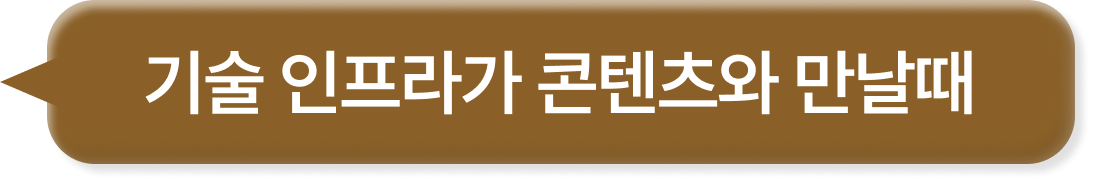
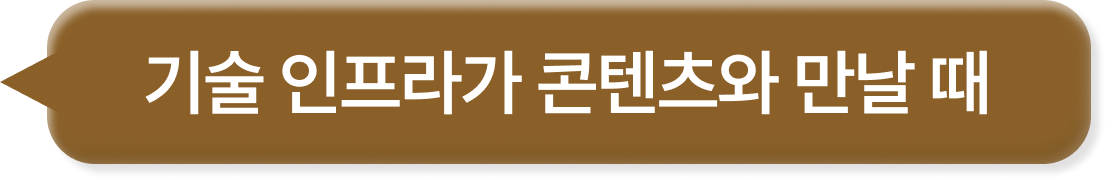
QA 3

diff --git a/global_5.html b/global_5.html
@@ -80,7 +80,7 @@
       <div class="global-market-banner-inner">
         <div class="global-market-banner-header">
           <p class="global-market-banner-eyebrow">Global Market Report</p>
-          <h1 class="global-market-banner-title">글로벌 마켓 트렌드</h1>
+          <h1 class="global-market-banner-title">글로벌 마켓 리포트</h1>
         </div>
 
         <nav class="global-market-nav" aria-label="글로벌 마켓 지역 이동">

diff --git a/global_6.html b/global_6.html
@@ -80,7 +80,7 @@
       <div class="global-market-banner-inner">
         <div class="global-market-banner-header">
           <p class="global-market-banner-eyebrow">Global Market Report</p>
-          <h1 class="global-market-banner-title">글로벌 마켓 트렌드</h1>
+          <h1 class="global-market-banner-title">글로벌 마켓 리포트</h1>
         </div>
 
         <nav class="global-market-nav" aria-label="글로벌 마켓 지역 이동">

diff --git a/global_1.html b/global_1.html
@@ -87,7 +87,7 @@
           <p class="global-market-banner-eyebrow">Global Market Report</p>
 
           <h1 class="global-market-banner-title">
-            글로벌 마켓 트렌드
+            글로벌 마켓 리포트
           </h1>
         </div>
 

diff --git a/global_2.html b/global_2.html
@@ -87,7 +87,7 @@
           <p class="global-market-banner-eyebrow">Global Market Report</p>
 
           <h1 class="global-market-banner-title">
-            글로벌 마켓 트렌드
+            글로벌 마켓 리포트
           </h1>
         </div>
 

diff --git a/global_3.html b/global_3.html
@@ -87,7 +87,7 @@
           <p class="global-market-banner-eyebrow">Global Market Report</p>
 
           <h1 class="global-market-banner-title">
-            글로벌 마켓 트렌드
+            글로벌 마켓 리포트
           </h1>
         </div>
 

diff --git a/global_4.html b/global_4.html
@@ -88,7 +88,7 @@
           <p class="global-market-banner-eyebrow">Global Market Report</p>
 
           <h1 class="global-market-banner-title">
-            글로벌 마켓 트렌드
+            글로벌 마켓 리포트
           </h1>
         </div>
 
